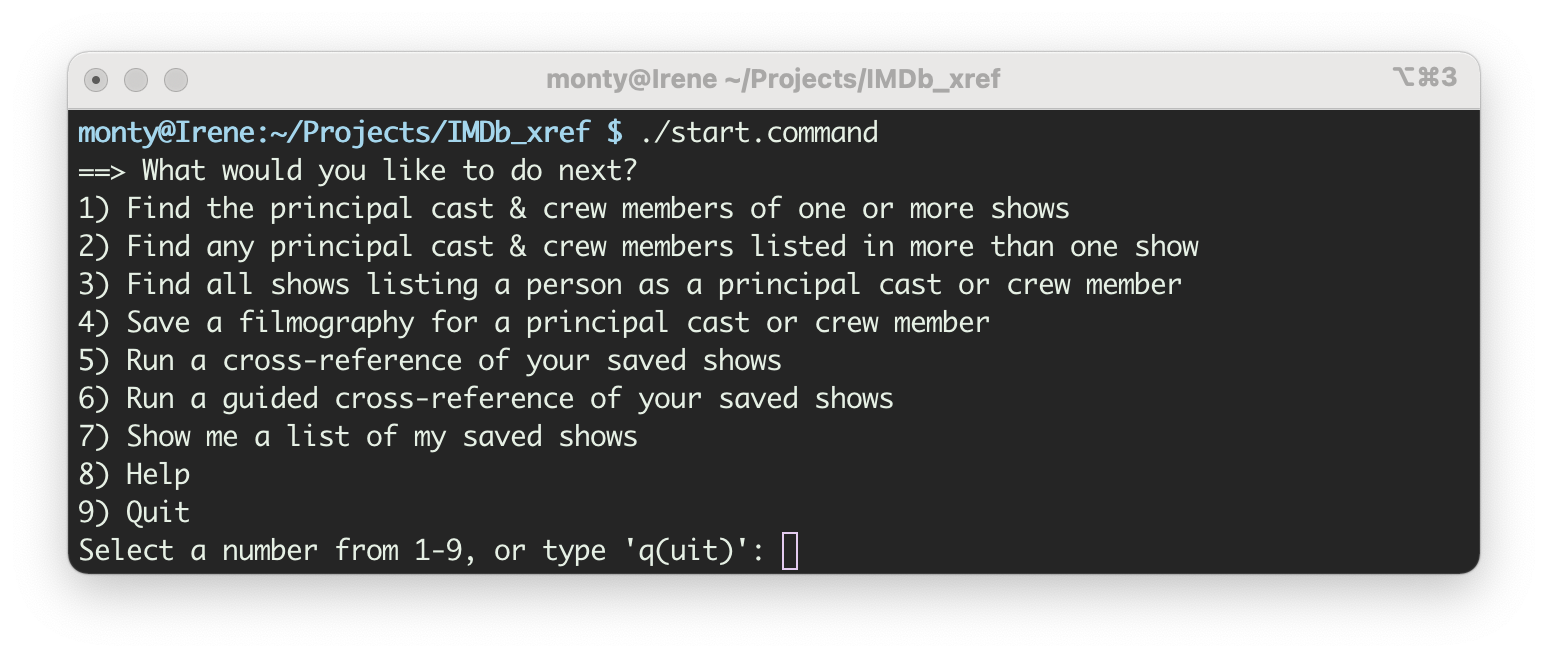
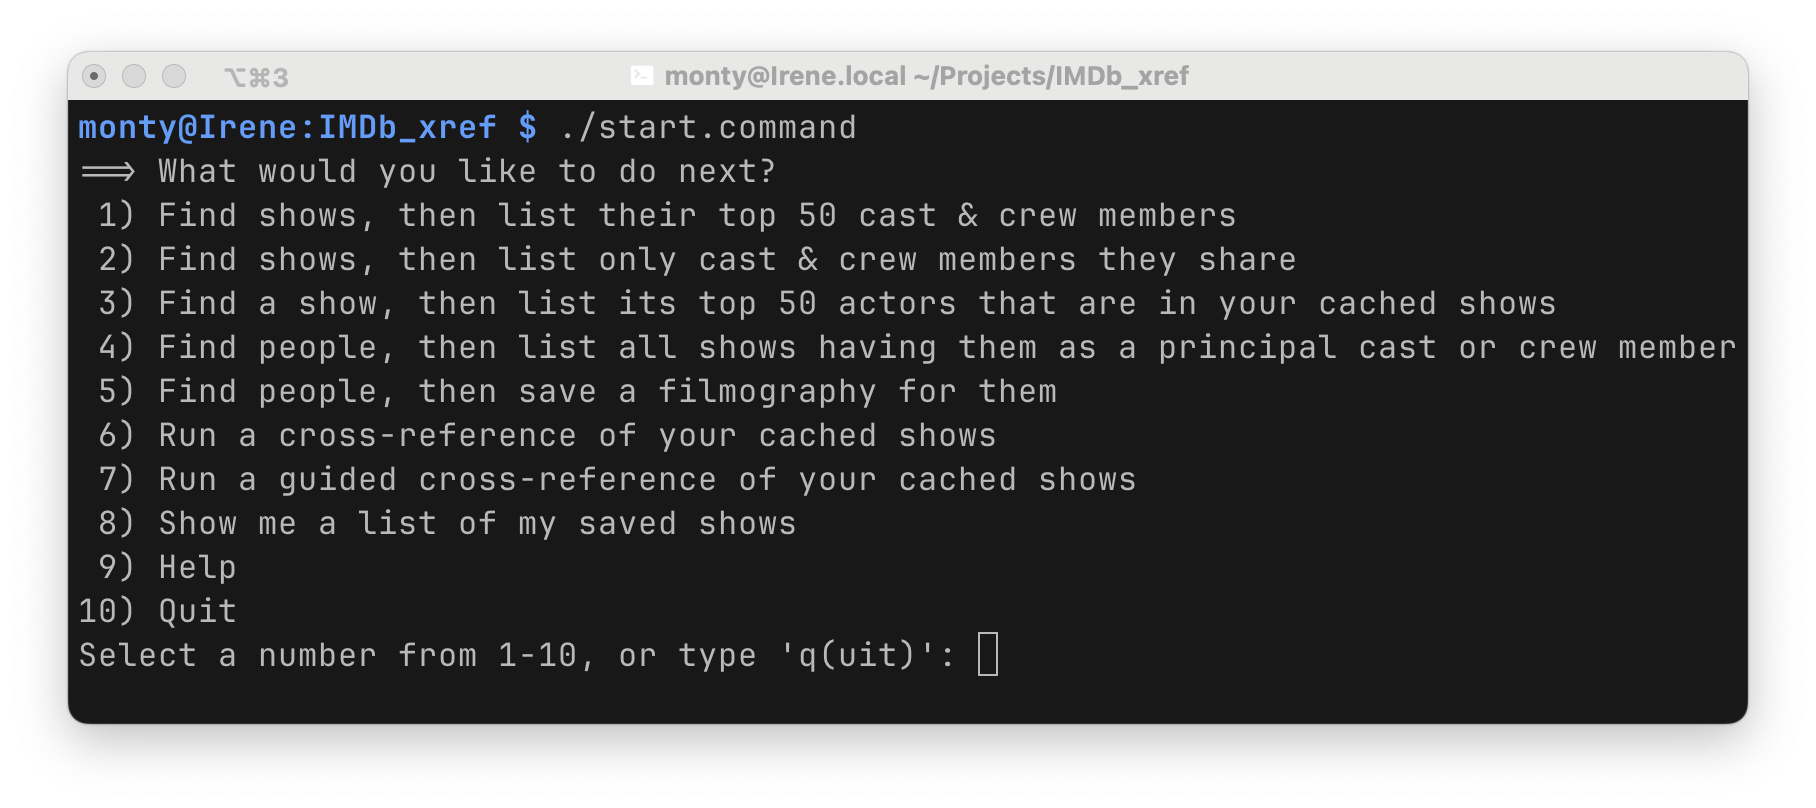
Update documantation

Changed region(s): [[0.031, 0.0608, 0.9612, 0.9119]]

diff --git a/README.md b/README.md
@@ -59,9 +59,8 @@ Suppose you're a fan of the PBS series "The Crown". You start watching "The
 Night Manager". You recognize the actress who played Princess Diana in "The
 Crown" but aren't sure of her name.
 
-Run `start.command`, select `Find the principal cast & crew members of one or
-more shows`. Enter **`The Crown`**, enter **`The Night Manager`**, enter a blank
-line. *It will find 4 shows titled The Crown - select #4, the tvSeries.* It will
+Run `start.command`, select `1) Find shows, then list their top 50 cast & crew members`. Enter **`The Crown`**, enter **`The Night Manager`**, enter a blank
+line. *It will find 5 shows titled The Crown - select #5, the tvSeries.* *It will find 2 shows titled The Night Manager - select #3, the one dated 2016.* It will
 display the cast of "The Crown", the cast of "The Night Manager", and finally,
 the principal cast members who appear in more than one show. You can easily see
 that the actress you were looking for is Elizabeth Debicki.
@@ -71,14 +70,12 @@ that the actress you were looking for is Elizabeth Debicki.
 If you like those shows, save them to your favorites. It will enable some
 advanced features we'll cover later.
 
-Then select `Find all shows listing a person as a principal cast or crew
-member`. Enter **`Elizabeth Debicki`**. It will find 17 titles listing Elizabeth
-Debicki as: actress.
+Then select `4) Find people, then list all shows having them as a principal cast or crew member`. Enter **`Elizabeth Debicki`**. It will find the titles listing Elizabeth Debicki as: self, actress, etc. Enter "n" for any categories you don't want to see.
 
 ![Debicki as actress](docs/Screenshots/Debicki.png?raw=true)
 
 Repeat with any cast members you want to know more about, such as Olivia Colman.
-You'll discover she is in 62 shows, including "Broadchurch".
+You'll discover she is in 130 shows, including "Broadchurch".
 
 Look up the cast of "Broadchurch" to find more actors, then find more shows and
 even more actors. Enjoy exploring! Each query result includes handy links to
@@ -113,7 +110,7 @@ compressed IMDb data files, and open the top-level menu shown below.
 
 ![Top-level menu](docs/Screenshots/startMenu.png?raw=true)
 
-Select #1 `Find the principal cast & crew members of one or more shows`. Enter
+Select #1 `Find shows, then list their top 50 cast & crew members`. Enter
 the title of a movie or TV show you like. If you know another show starring some
 of the same actors, enter that on the next line. Then enter a blank line.
 
@@ -129,11 +126,10 @@ term. It can be quite long for complex queries.
 The "... listed in more than one" section contains only rows with names
 found in more than one show. It can be empty.
 
-Selecting #2 `Find any principal cast & crew members listed in more than one
-show` will hide the "Principal cast & crew" section. Running identical queries
+Selecting #2 `Find shows, then list only cast & crew members they share` will hide the "Principal cast & crew" section. Running identical queries
 using #1 and #2 will give you an understanding of when each is useful.
 
-Menu selections #3 and #4 search for principal cast and crew members instead of
+Menu selections #4 and #5 search for principal cast and crew members instead of
 show titles. Results should be self-explanatory.
 
 ### Cross-reference saved shows
@@ -142,20 +138,20 @@ When prompted in #1 or #2, add some shows to your favorites, and update your
 data files. That will create lists and spreadsheets that combine data for
 cross-referencing. Those files are much smaller, enabling faster queries.
 
-Select #5 `Run a cross-reference of your saved shows` to enter search terms a
+Select #6 `Run a cross-reference of your cached shows` to enter search terms a
 line at a time.
 
 You can mix and match shows, cast or crew members, and characters portrayed in a
 single search, e.g. The Crown, Olivia Colman, and Queen Elizabeth. Search for
 two or more actors to see if they appear in any shows together. Search for two
-or more shows to see which actors, if any, appear in more than one. 
+or more shows to see which actors, if any, appear in more than one.
 
-Select #6 `Run a guided cross-reference of your saved shows` to predict and fill
+Select #7 `Run a guided cross-reference of your cached shows` to predict and fill
 in search terms with minimal typing. This is particularly useful on a tablet
 running a terminal emulator. *I use the free version of Termius on an iPad, but
 others should work also.*
 
-You can use #7, `Show me a list of my saved shows` to make sure you have saved
+You can use #8, `Show me a list of my saved shows` to make sure you have saved
 the necessary shows before cross-referencing.
 
 ### Search term hints
@@ -218,9 +214,9 @@ people with 758 lines of credits. It did so by selecting three PBS shows from
 **`PBS.xlate`**.
 
 If you run `./generateXrefData.sh -t`, it will load all the shows in
-**`tconst.example`**. You'll now have data on 98 shows with 2205 episodes --
-crediting 3769 people with 19002 lines of credits. Running this takes about 45
-seconds. However, queries should still take less than one second.
+**`tconst.example`**. You'll now have data on 98 shows with 2541 episodes --
+crediting 8457 people with 38151 lines of credits. Running this takes about 2
+minutes. However, queries should still take less than one second.
 
 You can clean up any data you don't want by running `cleanupEverything.sh`. I
 suggest you don't delete anything until you've run through the entire list of
@@ -252,7 +248,7 @@ for TV shows can return more than 10 because each episode has its own credits --
 which is why you can see 56 "Principal cast & crew members" for "The Crown".
 
 IMDb prohibits scraping their website, but you can use the imdb.com links we
-provide to access the "Full Cast & Crew" data online. 
+provide to access the "Full Cast & Crew" data online.
 
 Downloading IMDb data frequently is not as beneficial as you might think. While
 the data is updated daily, those updates are usually minor changes, like
